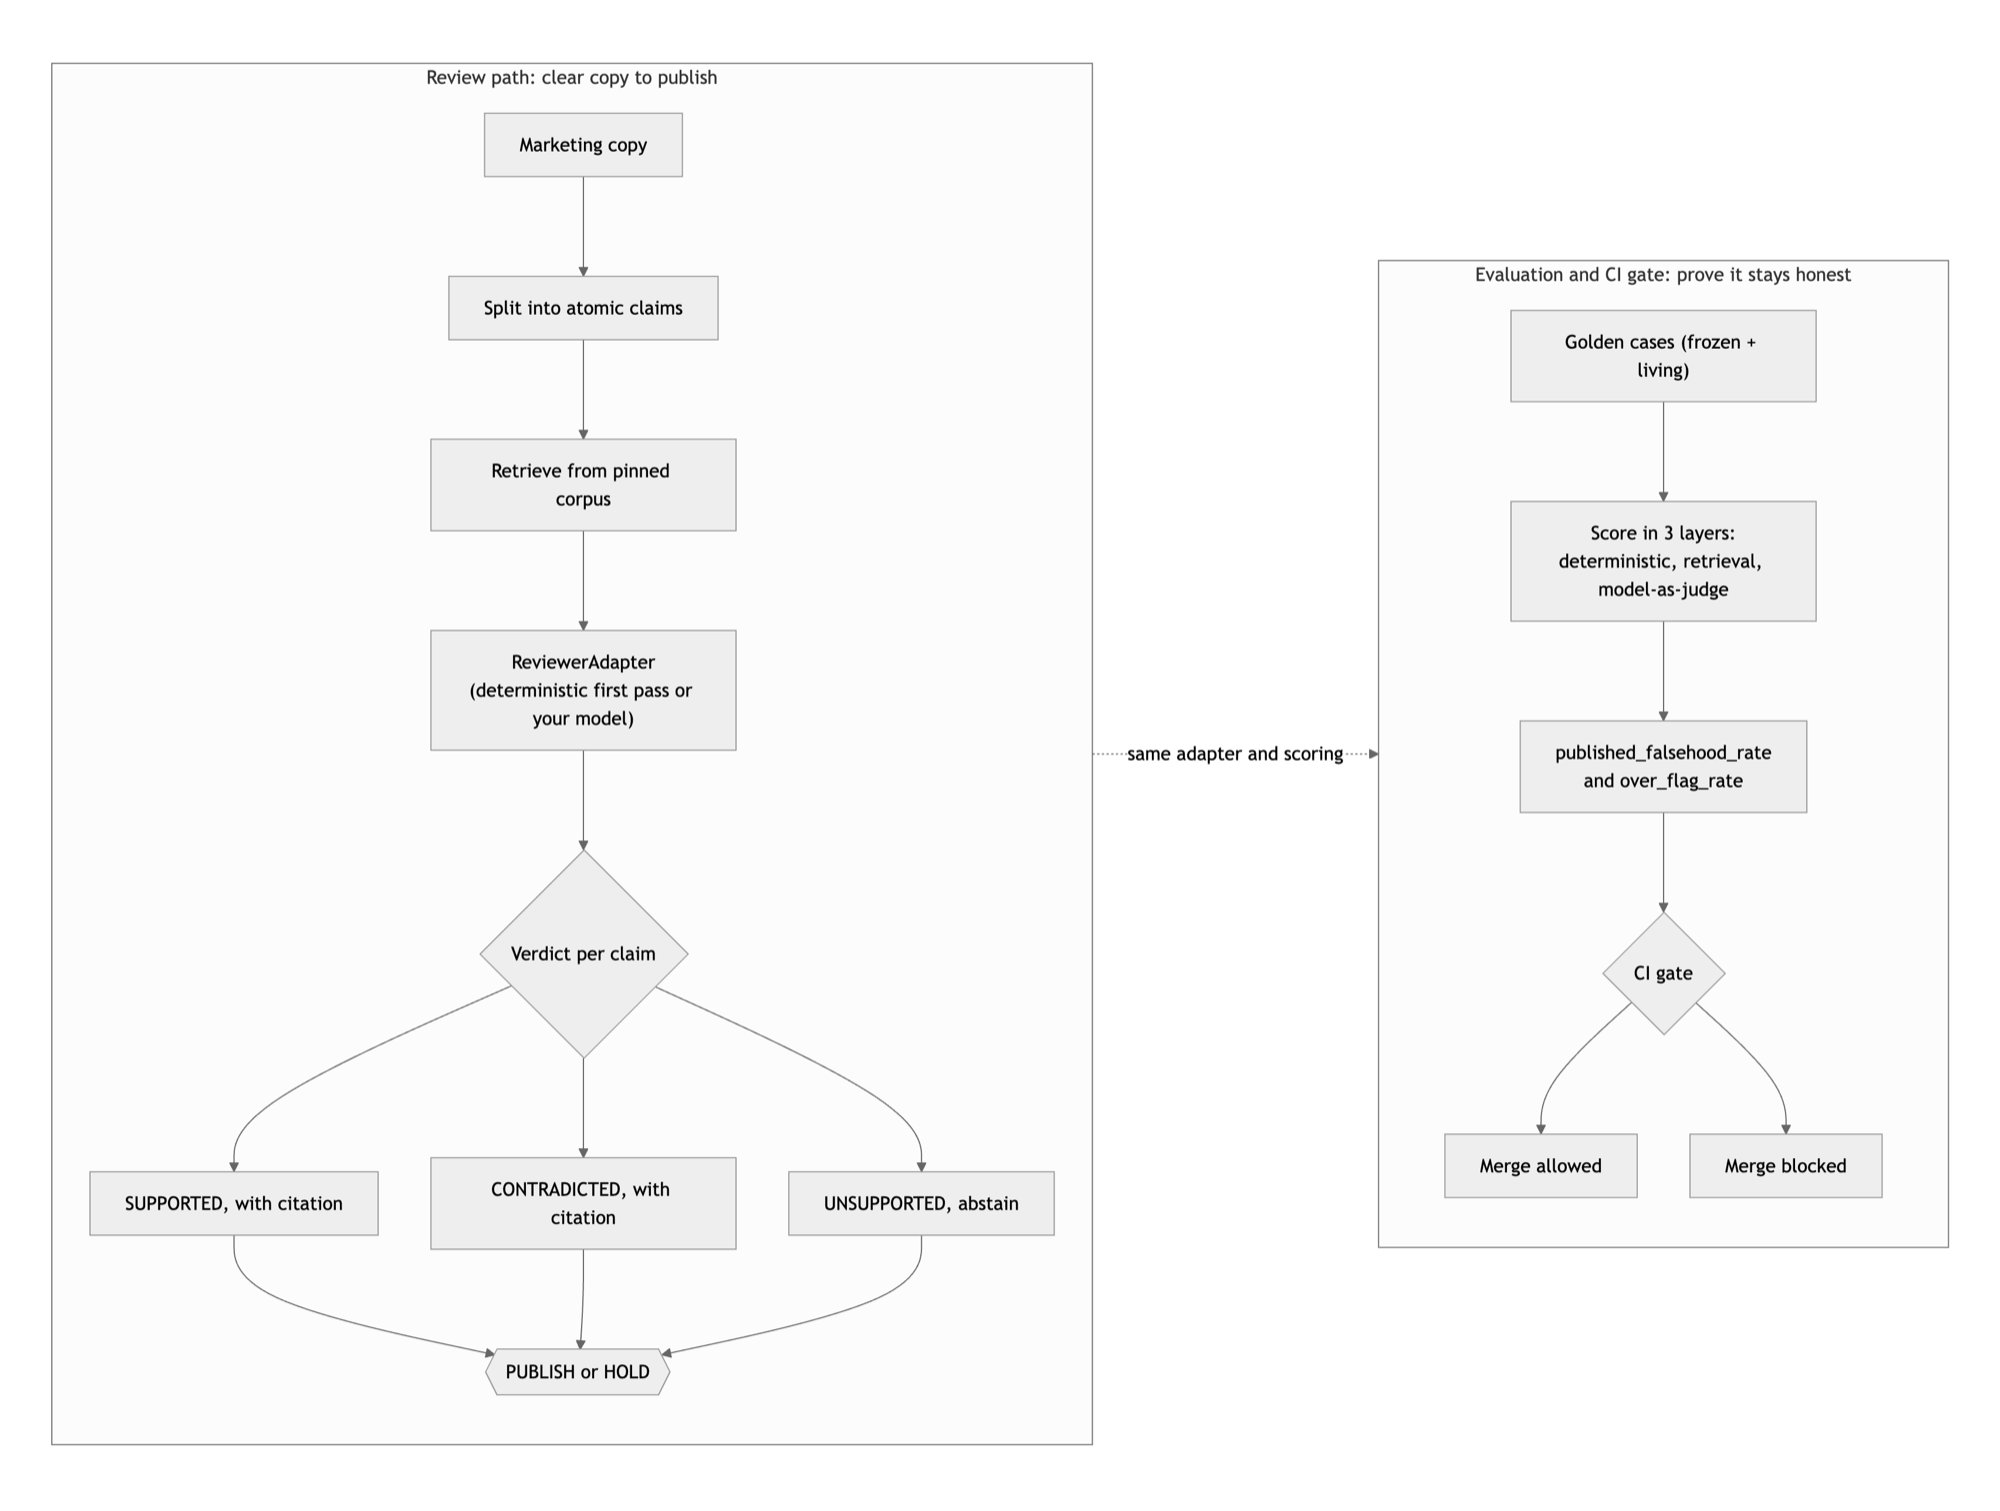
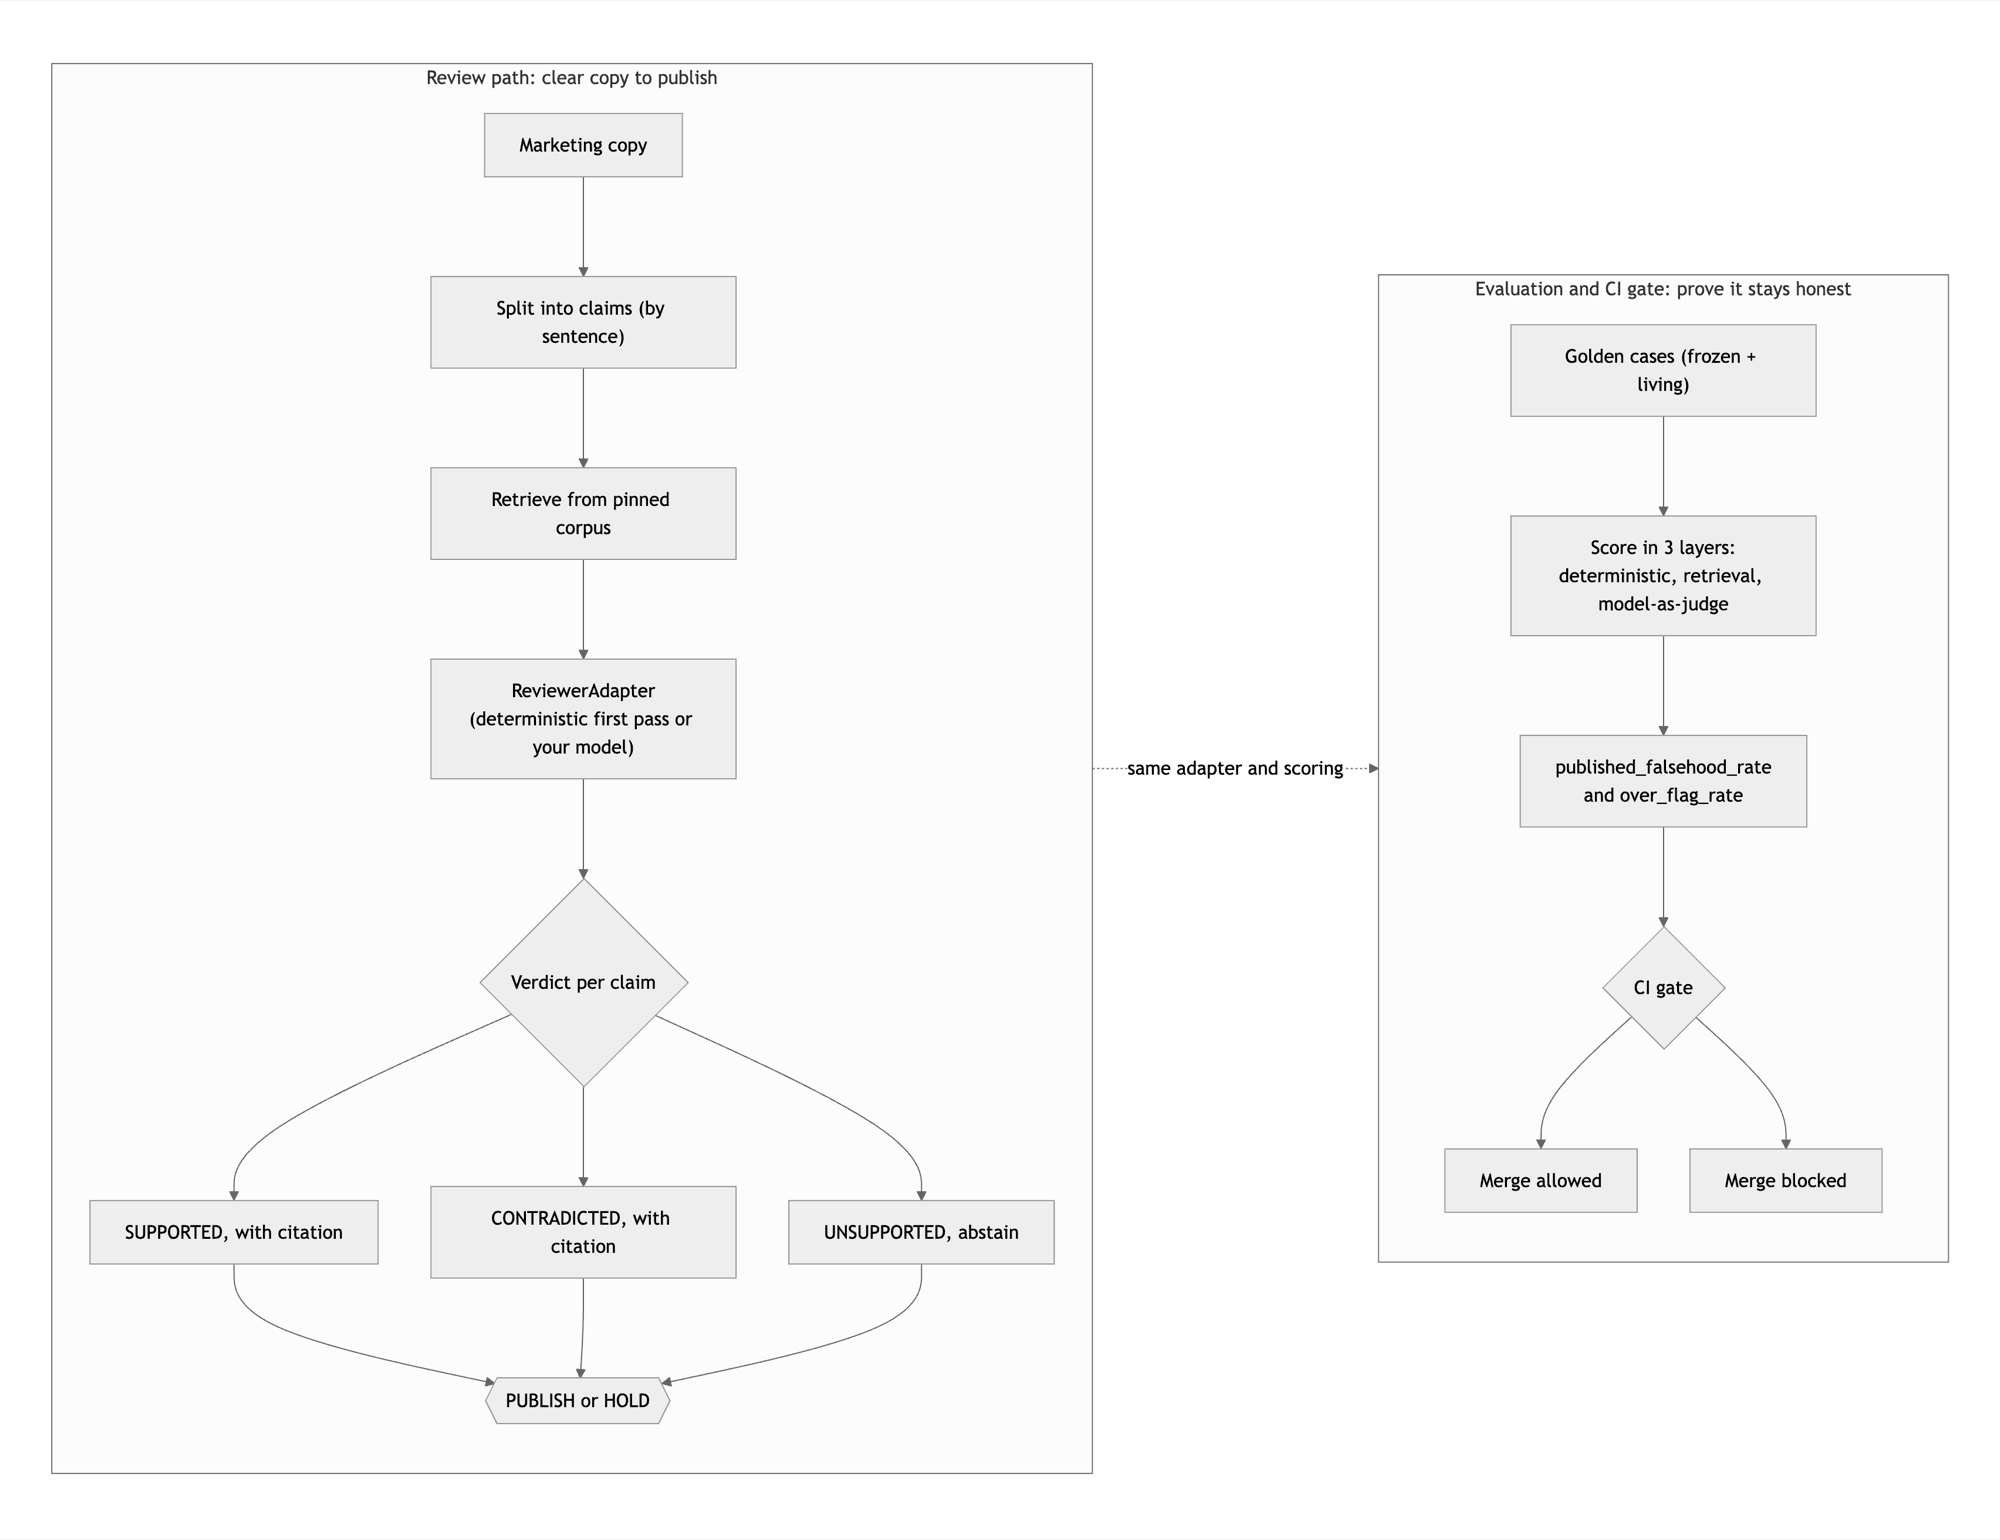
Harden reviewer and tighten honesty: currency-aware money, documented entity gap
Currency-tag money so US$0.30 is not vouched for by a CA$0.30 source (regression tests added). Add the wrong-subject AES case to known_gaps and Known limitations. Correct 'atomic claims' to sentence-level in the diagram, its source, and the splitter docstring; fix the judge-cadence wording, the metric name, and the speculative production-judge note.

diff --git a/claimcheck/agent.py b/claimcheck/agent.py
@@ -57,21 +57,29 @@ BUG_MARKERS = ("leakverdict", "phantomcite", "rubberstamp", "greenlight")
 # 0.30 so a paraphrase still matches the source.                               #
 # --------------------------------------------------------------------------- #
 _PCT = re.compile(r"(\d+(?:\.\d+)?)\s*(?:%|percent\b)", re.IGNORECASE)
-_DOLLAR = re.compile(r"(?:CA\$|US\$|USD|CAD|\$)\s*(\d+(?:\.\d+)?)", re.IGNORECASE)
+_DOLLAR = re.compile(r"(CA\$|US\$|USD|CAD|\$)\s*(\d+(?:\.\d+)?)", re.IGNORECASE)
 _CENTS = re.compile(r"(\d+(?:\.\d+)?)\s*(?:cents?|¢)", re.IGNORECASE)
 _NUM = re.compile(r"\d+(?:\.\d+)?")
 
+# Map a money prefix to an explicit currency, or None when it is ambiguous: a
+# bare "$" or "30 cents" could be either, so we do not assume one.
+_CURRENCY = {"ca$": "CAD", "cad": "CAD", "us$": "USD", "usd": "USD", "$": None}
 
-def extract_quantities(text: str) -> dict[str, set[float]]:
+
+def extract_quantities(text: str) -> dict[str, set]:
     """Return {"pct": {...}, "money": {...}, "num": {...}} found in ``text``.
 
-    Money is normalized to a single currency-agnostic magnitude (dollars), and
-    cents are folded in as fractional dollars, so "30 cents", "$0.30" and
-    "CA$0.30" all compare equal. Percent and money spans are removed before bare
-    numbers are read, so a value is never double-counted across kinds.
+    Percentages and bare numbers are sets of floats. Money is a set of
+    ``(currency, amount)`` pairs: the amount is normalized to dollars (cents fold
+    in as fractional dollars) and the currency is "USD", "CAD", or None when it
+    is not stated (a bare "$" or "30 cents"). Carrying the currency lets the
+    reviewer catch a US-dollar claim cited to a Canadian-dollar source, while an
+    unstated currency still matches either so an honest paraphrase is not
+    punished. Percent and money spans are removed before bare numbers are read,
+    so a value is never double-counted across kinds.
     """
     pcts: set[float] = set()
-    moneys: set[float] = set()
+    moneys: set[tuple[str | None, float]] = set()
     nums: set[float] = set()
 
     work = text or ""
@@ -80,11 +88,12 @@ def extract_quantities(text: str) -> dict[str, set[float]]:
     work = _PCT.sub(" ", work)
 
     for m in _DOLLAR.finditer(work):
-        moneys.add(round(float(m.group(1)), 4))
+        currency = _CURRENCY.get(m.group(1).lower())
+        moneys.add((currency, round(float(m.group(2)), 4)))
     work = _DOLLAR.sub(" ", work)
 
     for m in _CENTS.finditer(work):
-        moneys.add(round(float(m.group(1)) / 100.0, 4))
+        moneys.add((None, round(float(m.group(1)) / 100.0, 4)))
     work = _CENTS.sub(" ", work)
 
     for m in _NUM.finditer(work):
@@ -99,6 +108,22 @@ def _has_any(q: dict[str, set[float]]) -> bool:
 
 def _matched(value: float, candidates: set[float]) -> bool:
     return any(math.isclose(value, c, rel_tol=1e-9, abs_tol=0.005) for c in candidates)
+
+
+def _currency_compatible(a: str | None, b: str | None) -> bool:
+    """Two currencies are compatible if equal or at least one is unstated."""
+    return a is None or b is None or a == b
+
+
+def _money_matched(value: tuple[str | None, float], candidates: set) -> bool:
+    """A money value matches only when the amount is close AND the currency is
+    compatible, so US$0.30 does not match a source stating CA$0.30."""
+    cur, amount = value
+    return any(
+        math.isclose(amount, c_amount, rel_tol=1e-9, abs_tol=0.005)
+        and _currency_compatible(cur, c_cur)
+        for c_cur, c_amount in candidates
+    )
 
 
 # --------------------------------------------------------------------------- #
@@ -224,15 +249,21 @@ class ReferenceReviewer(ReviewerAdapter):
                 doc_q[kind] |= dq[kind]
 
         if _has_any(claim_q):
-            unmatched: list[tuple[str, float]] = []
-            conflict: tuple[str, float] | None = None
+            unmatched: list = []
+            conflict = None
             for kind, values in claim_q.items():
                 for value in values:
-                    if _matched(value, doc_q[kind]):
+                    hit = (
+                        _money_matched(value, doc_q[kind])
+                        if kind == "money"
+                        else _matched(value, doc_q[kind])
+                    )
+                    if hit:
                         continue
                     unmatched.append((kind, value))
                     # a conflict requires the source to state a DIFFERENT value
-                    # of the same kind (e.g. claim 1.9%, source 2.9%).
+                    # of the same kind (e.g. claim 1.9%, source 2.9%; or a US$
+                    # amount where the source states the same number in CA$).
                     if doc_q[kind]:
                         conflict = (kind, value)
             if not unmatched:
@@ -277,19 +308,21 @@ class ReferenceReviewer(ReviewerAdapter):
 
 
 # --------------------------------------------------------------------------- #
-# Splitting a piece of copy into atomic claims (for the live `review` command)  #
+# Splitting a piece of copy into claims, one per sentence (the live review path) #
 # --------------------------------------------------------------------------- #
 _SENT_SPLIT = re.compile(r"(?<=[.!?])\s+|\s*[;]\s+")
 _ALPHA = re.compile(r"[A-Za-z]+")
 
 
 def split_into_claims(copy: str) -> list[str]:
-    """Break a piece of marketing copy into atomic claim sentences.
+    """Split a piece of marketing copy into claim sentences, one per sentence.
 
     Deliberately simple and inspectable: split on sentence enders and
-    semicolons, keep fragments that carry at least a few words. A production
-    splitter would use a model; the point here is that review happens one atomic
-    claim at a time, which is what makes per-claim citation honest.
+    semicolons, keep fragments that carry at least a few words. This is
+    sentence-level, not true atomic-claim decomposition, so a compound sentence
+    is reviewed as one unit. A production splitter uses a model; the point here
+    is that review happens one sentence-level claim at a time, which is what
+    makes per-claim citation honest.
     """
     claims = []
     for raw in _SENT_SPLIT.split(copy or ""):

diff --git a/tests/test_hardening.py b/tests/test_hardening.py
@@ -88,3 +88,19 @@ def test_decoy_caps_a_rubber_stamp_judge(corpus):
     # the cited passage ties the decoy under a rubber-stamp judge, so it must not
     # earn full citation-correctness credit.
     assert v.axes["citation_correctness"].score <= 1
+
+
+def test_currency_mismatch_is_not_published(corpus):
+    # US$0.30 must not be vouched for by a CA$0.30 source: same number, different
+    # money. A trust tool cannot wave a US-dollar fee through on a Canadian source.
+    reviewer = ReferenceReviewer(corpus)
+    out = reviewer.review_claim("Stripe charges 2.9% plus US$0.30 per successful card charge.")
+    assert out.verdict is not Verdict.SUPPORTED
+
+
+def test_unstated_currency_still_matches(corpus):
+    # the honest paraphrase "30 cents" (currency unstated) must still match the
+    # CA$0.30 source, so the currency guard does not punish a true claim.
+    reviewer = ReferenceReviewer(corpus)
+    out = reviewer.review_claim("Stripe charges 2.9% plus 30 cents per successful card charge.")
+    assert out.verdict is Verdict.SUPPORTED

diff --git a/tests/test_retrieval_and_judge.py b/tests/test_retrieval_and_judge.py
@@ -14,8 +14,8 @@ def _case(claim, verdict="supported", gold=("d_aes",), cid="c"):
 def test_extract_quantities_normalizes_money_and_percent():
     q = extract_quantities("2.9% + 30 cents, capped at CA$5.00, AES-256")
     assert 2.9 in q["pct"]
-    assert 0.30 in q["money"]      # "30 cents" -> 0.30 dollars
-    assert 5.0 in q["money"]       # "CA$5.00" -> 5.00
+    assert (None, 0.30) in q["money"]    # "30 cents" -> 0.30, currency unstated
+    assert ("CAD", 5.0) in q["money"]    # "CA$5.00" -> 5.00 Canadian dollars
     assert 256 in q["num"]
 
 

diff --git a/README.md b/README.md
@@ -124,7 +124,7 @@ rather than waved through.
 
 ## How it scores: three layers, cheapest first
 
-The deterministic layer runs on every commit with no judge (`claimcheck run --no-judge`), so per-commit feedback is free and sub-second. The judge runs pre-merge and nightly. Cheapest and most deterministic first.
+The deterministic layer runs on every commit with no judge (`claimcheck run --no-judge`), so per-commit feedback is free and sub-second. The judge layer runs in CI on every push and on a nightly schedule with the bundled offline judge; a real model plugs in behind the same interface. Cheapest and most deterministic first.
 
 1. **Deterministic trust checks** (`claimcheck/deterministic.py`), no model,
    sub-second, on every commit:
@@ -141,8 +141,8 @@ The deterministic layer runs on every commit with no judge (`claimcheck run --no
    MRR and nDCG against the gold passages, isolated from the verdict step so a
    regression points at the right layer.
 
-3. **Model-as-judge** (`claimcheck/judges/`), versioned rubric, run nightly and
-   pre-merge: faithfulness (is the claim entailed by the cited passage) and
+3. **Model-as-judge** (`claimcheck/judges/`), versioned rubric, run in CI and
+   on a nightly schedule: faithfulness (is the claim entailed by the cited passage) and
    citation correctness (does the cited passage actually bear on this specific
    claim, beating the hardest decoy passage). The judge model id, temperature,
    seed and prompt version are pinned and recorded in every verdict.
@@ -166,7 +166,7 @@ judge, single run):
 | verdict_accuracy | 1.000 |
 | contradiction_recall | 1.000 |
 | abstention_recall | 1.000 |
-| retrieval_recall@k | 1.000 |
+| retrieval_recall_at_k | 1.000 |
 | rerank_mrr | 1.000 |
 | deterministic_pass_rate | 1.000 |
 | faithfulness_rate | 0.556 |
@@ -180,8 +180,8 @@ number-and-unit cases; it misses other cases by design, tracked in
 `data/known_gaps/` and in Known limitations below. `faithfulness_rate` and
 `citation_correctness` sit near 0.55 to 0.60 on purpose: the bundled judge is a
 content-overlap heuristic rather than a model, so the number is real and
-unrigged, and a production judge behind the same `JudgeClient` interface raises
-it. Reproduce with `claimcheck run`.
+unrigged, and a production judge can be swapped in behind the same `JudgeClient`
+interface and measured the same way. Reproduce with `claimcheck run`.
 
 ## The corpus is real and pinned
 
@@ -228,8 +228,10 @@ block):
   not drop beyond tolerance. No single previously-passing claim may regress, and
   any new claim added in the PR must pass.
 
-`examples/github-actions.yml` wires the gate into a pull request with the report
-posted as an artifact.
+The bundled `.github/workflows/ci.yml` gates every push and pull request against
+the committed `baseline.json`, and separately proves the gate has teeth by
+confirming it blocks a deliberately buggy reviewer. `examples/github-actions.yml`
+shows the same gate wired into a PR with the report posted as an artifact.
 
 ## The golden dataset
 
@@ -315,6 +317,11 @@ runnable cases in `data/known_gaps/` rather than quietly left out:
   historical uptime; "Stripe guarantees 99.999% uptime" reuses the number, so the
   first-pass reviewer wrongly supports it. Separating a past stat from a forward
   guarantee needs a model.
+- **A substituted subject.** "All bank account numbers are encrypted at rest with
+  AES-256" reuses the encryption wording and the number from the card-number
+  passage, so the first-pass reviewer wrongly supports it. Telling a swapped
+  subject apart from a valid synonym or plural paraphrase ("every card number"
+  vs "all card numbers") needs a model, not bag-of-words overlap.
 
 Run `claimcheck run --data data/known_gaps` to watch it miss them. That is the
 boundary: a model wired in behind the same `ReviewerAdapter` closes these, and